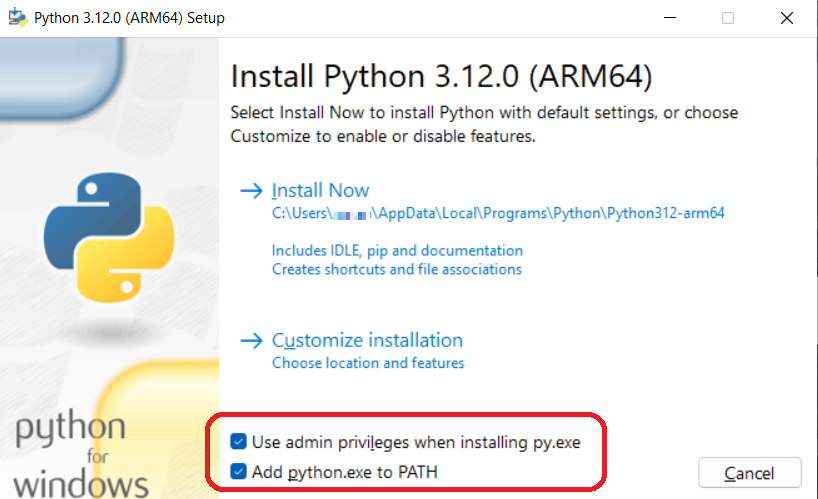
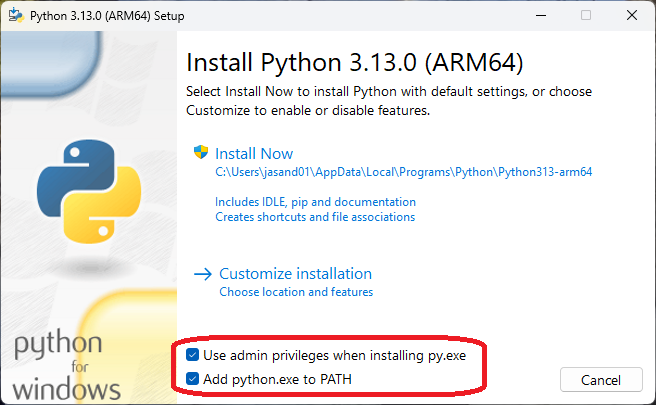
Update Python for Windows on Arm install guide for version 3.13

diff --git a/content/install-guides/py-woa.md b/content/install-guides/py-woa.md
@@ -27,19 +27,19 @@ multitool_install_part: false   # Set to true if a sub-page of a multi-page arti
 layout: installtoolsall         # DO NOT MODIFY. Always true for tool install articles
 ---
 
-Python has native support for [Windows on Arm](https://learn.microsoft.com/en-us/windows/arm/overview). Starting with version 3.11, an official installer is available. The latest version at time of writing is 3.12.0.
+Python has native support for [Windows on Arm](https://learn.microsoft.com/en-us/windows/arm/overview). Starting with version 3.11, an official installer is available. The latest version at time of writing is 3.13.0.
 
 A number of developer ready Windows on Arm [devices](/learning-paths/laptops-and-desktops/intro/find-hardware/) are available.
 
 Windows on Arm instances are available with Microsoft Azure. For more information, see [Deploy a Windows on Arm virtual machine on Microsoft Azure](/learning-paths/cross-platform/woa_azure/).
 
-## Download and install
+## How do I download and install Python for Windows on Arm?
 
 The installer can be downloaded from the [Python website](https://www.python.org/downloads/windows/). Locate the `ARM64` installer.
 
 You can also download from a PowerShell terminal.
 ```command
-curl https://www.python.org/ftp/python/3.12.0/python-3.12.0-arm64.exe -O python-3.12.0-arm64.exe
+curl https://www.python.org/ftp/python/3.13.0/python-3.13.0-arm64.exe --output python-3.13.0-arm64.exe
 ```
 
 Once downloaded, run the installer `exe` file on a Windows on Arm machine. 
@@ -54,44 +54,52 @@ Check `Add python.exe to PATH` if you want to easily invoke python from any dire
 
 ![Complete #center](/install-guides/_images/py2-woa.png)
 
-## Invoke python
+## How do I start Python on Windows? 
 
 At a Windows Command prompt or a PowerShell prompt use `python` or `py` to start the interpreter.
+
 ```cmd
 py
 ```
+
+The interpreter starts with output similar to:
+
 ```output
-Python 3.12.0 (tags/v3.12.0:0fb18b0, Oct  2 2023, 13:15:47) [MSC v.1935 64 bit (ARM64)] on win32
+Python 3.13.0 (tags/v3.13.0:60403a5, Oct  7 2024, 10:17:29) [MSC v.1941 64 bit (ARM64)] on win32
 Type "help", "copyright", "credits" or "license" for more information.
 >>>
 ```
-Enter `exit()` to leave interpreter.
+
+Enter `exit()` to leave the interpreter:
+
 ```python
 exit()
 ```
 
-## Test an example
+## How can I run a Python example?
 
-To confirm python is working, save the code below into a file `uname.py`.
+To confirm python is working, use a text editor to save the code below to a file named `uname.py`.
 
-#### uname.py
 ```python
 import platform
 print("Python version", platform.python_version())
 print("Machine is", platform.uname().system, platform.uname().release, platform.uname().machine)
 ```
 
-Run the code.
+Run the code:
+
 ```console
 py uname.py
 ```
+
 Running on a Windows on Arm machine produces the output similar to:
+
 ```output
-Python version 3.12.0
+Python version 3.13.0
 Machine is Windows 11 ARM64
 ```
 
-## Installing packages
+## How do I install Python packages?
 
 Python `pip` can be used to install packages. 
 
@@ -100,9 +108,8 @@ For example, to install [Flask](https://palletsprojects.com/p/flask/):
 pip install Flask
 ```
 
-Save the code below as `hello.py`:
+Use a text editor to save the code below as `hello.py`:
 
-#### hello.py
 ```python
 import platform
 from flask import Flask
@@ -131,7 +138,7 @@ WARNING: This is a development server. Do not use it in a production deployment.
  * Running on http://10.8.0.10:5000
 Press CTRL+C to quit
 ```
-Open a browser to the URL printed by the application. In this example:
+Open a browser with the URL printed by the application. In this example:
 ```url
 http://127.0.0.1:5000
 ```
@@ -139,20 +146,20 @@ The output is displayed in the browser window.
 
 ![Complete #center](/install-guides/_images/flask-woa.png)
 
-The accesses are reported in the command prompt:
+The accesses are reported in the command window:
+
 ```output
 127.0.0.1 - - [<timestamp>] "GET / HTTP/1.1" 200 -
 127.0.0.1 - - [<timestamp>] "GET /favicon.ico HTTP/1.1" 404 -
 10.8.0.10 - - [<timestamp>] "GET / HTTP/1.1" 200 -
 10.8.0.10 - - [<timestamp>] "GET /favicon.ico HTTP/1.1" 404 -
 ```
-Use `Ctrl+C` to kill the application.
 
-## Using IDLE
+Use `Ctrl+C` to stop the application.
+
+## Is Python IDLE available?
 
 Python `IDLE` is included in the installation. IDLE is a simple IDE for python development. You can locate it in your start menu.
-
-![IDLE #center](/install-guides/_images/idle.png)
 
 You can create and run Python applications in this environment.
 
@@ -161,7 +168,6 @@ For example, use `File` > `Open...` (`Ctrl+O`) to open the above `uname.py`.
 Then select `Run` > `Run module` (`F5`) to execute.
 
 ![IDLE uname #center](/install-guides/_images/py3-woa.png)
-
 
 
 You are now ready to use Python on your Windows on Arm device. 
